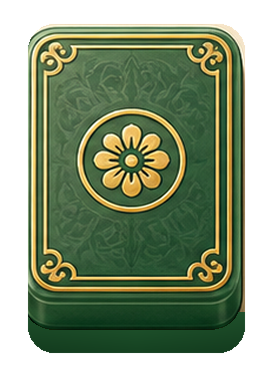
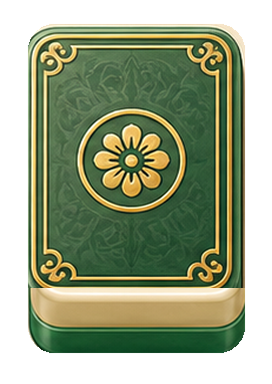
fix: unify formal honor tile lower bodies

Changed region(s): [[0.0882, 0.75, 0.9118, 0.9375]]

diff --git a/output/hulebu-ui-assets/scripts/build_formal_ui_batch_c.py b/output/hulebu-ui-assets/scripts/build_formal_ui_batch_c.py
@@ -120,39 +120,17 @@ def has_hidden_transparent_rgb(image: Image.Image) -> bool:
     return False
 
 
-def recolor_warm_lower_matte(image: Image.Image) -> Image.Image:
+def replace_lower_body(image: Image.Image, standard_body: Image.Image, start_y: int = 288) -> Image.Image:
     rgba = image.copy().convert("RGBA")
-    pixels = rgba.load()
-    start_y = 312
-    solid_green_y = 336
-    end_y = 354
-    for y in range(start_y, rgba.height):
-        depth = max(0.0, min(1.0, (y - start_y) / max(1, end_y - start_y)))
-        for x in range(rgba.width):
-            red, green, blue, alpha = pixels[x, y]
-            if alpha == 0:
-                continue
-            is_green = green >= red * 1.45 and green >= blue * 1.25
-            if y < solid_green_y and is_green:
-                continue
-            center_light = 0.88 + 0.12 * (1 - abs(x - rgba.width / 2) / (rgba.width / 2))
-            target_red = round((34 - 14 * depth) * center_light)
-            target_green = round((88 - 24 * depth) * center_light)
-            target_blue = round((47 - 15 * depth) * center_light)
-            pixels[x, y] = (target_red, target_green, target_blue, alpha)
+    lower_body = standard_body.convert("RGBA").crop((0, start_y, rgba.width, rgba.height))
+    rgba.paste(lower_body, (0, start_y))
     return rgba
 
 
-def count_non_green_lower_lip_pixels(image: Image.Image) -> int:
-    rgba = image.convert("RGBA")
-    pixels = rgba.load()
-    count = 0
-    for y in range(312, rgba.height):
-        for x in range(rgba.width):
-            red, green, blue, alpha = pixels[x, y]
-            if alpha > 0 and not (green >= red * 1.45 and green >= blue * 1.25):
-                count += 1
-    return count
+def has_standard_lower_body(image: Image.Image, standard_body: Image.Image, start_y: int = 288) -> bool:
+    actual = image.convert("RGBA").crop((0, start_y, image.width, image.height))
+    expected = standard_body.convert("RGBA").crop((0, start_y, image.width, image.height))
+    return ImageChops.difference(actual, expected).getbbox() is None
 
 
 def save_asset(
@@ -258,7 +236,8 @@ def build_tiles(entries: list[dict[str, object]]) -> dict[str, Image.Image]:
     source_items = list(source_manifest["items"])
     if not any(str(item["id"]) == "tile_back_default" for item in source_items):
         source_items.append({"id": "tile_back_default", "file": "base/tile_back_default.png"})
-    standard_alpha = Image.open(TILE_SOURCE / "preview/standard-body-blank.png").convert("RGBA").getchannel("A")
+    standard_body = Image.open(TILE_SOURCE / "preview/standard-body-blank.png").convert("RGBA")
+    standard_alpha = standard_body.getchannel("A")
     tiles: dict[str, Image.Image] = {}
     for item in source_items:
         item_id = str(item["id"])
@@ -269,7 +248,7 @@ def build_tiles(entries: list[dict[str, object]]) -> dict[str, Image.Image]:
             image = Image.open(TILE_SOURCE / str(item["file"])).convert("RGBA")
         if item_id in HONOR_BACK_IDS:
             image.putalpha(standard_alpha)
-            image = recolor_warm_lower_matte(image)
+            image = replace_lower_body(image, standard_body)
             image = clear_fully_transparent_rgb(image)
         if image.size != (272, 384):
             raise ValueError(f"Unexpected tile size for {item['id']}: {image.size}")
@@ -372,6 +351,7 @@ def validate(entries: list[dict[str, object]], preserved_count: int) -> dict[str
         errors.append(f"Tile canvas mismatch: {sorted(tile_sizes)}")
 
     reference_alpha = Image.open(PACK / "tiles/mahjong/wan-01.png").convert("RGBA").getchannel("A")
+    standard_body = Image.open(TILE_SOURCE / "preview/standard-body-blank.png").convert("RGBA")
     reference_bbox = reference_alpha.getbbox()
     honor_back_keys = {
         "tiles.mahjong.honor.east",
@@ -391,8 +371,8 @@ def validate(entries: list[dict[str, object]], preserved_count: int) -> dict[str
             errors.append(f"Honor/back alpha bbox mismatch: {entry_by_key[key]['path']}")
         if has_hidden_transparent_rgb(image):
             errors.append(f"Hidden RGB under transparent pixels: {entry_by_key[key]['path']}")
-        if count_non_green_lower_lip_pixels(image) > 0:
-            errors.append(f"Non-green lower lip remains: {entry_by_key[key]['path']}")
+        if not has_standard_lower_body(image, standard_body):
+            errors.append(f"Non-standard lower body: {entry_by_key[key]['path']}")
 
     return {
         "pack": "hulebu-formal-ui-v1",
@@ -409,7 +389,7 @@ def validate(entries: list[dict[str, object]], preserved_count: int) -> dict[str
             "mahjongTileCanvas": {"width": 272, "height": 384},
             "honorBackStandardAlpha": not any("Honor/back alpha bbox mismatch" in error for error in errors),
             "transparentRgbCleared": not any("Hidden RGB under transparent pixels" in error for error in errors),
-            "honorBackGreenLowerLip": not any("Non-green lower lip remains" in error for error in errors),
+            "honorBackStandardLowerBody": not any("Non-standard lower body" in error for error in errors),
             "targetViewport": {"width": 390, "height": 844, "resourceScale": 2},
         },
     }

diff --git a/docs/tasks/TASK_BOARD.md b/docs/tasks/TASK_BOARD.md
@@ -362,4 +362,5 @@
 | T252 | P0 | 胡了卜正式 UI 资源 Batch C | Lee | 已完成 | T248 规格；T249 视觉基线；T251 Batch A+B 已完成 | `output/hulebu-ui-assets/hulebu-formal-ui-v1/cards/**`、`modals/**`、`tiles/mahjong/**`、`master-sources/**`、`previews/**`、正式包 `manifest.json`/`validation-report.json`、`output/hulebu-ui-assets/scripts/build_formal_ui_batch_c.py`、T248/T252 任务与领取分片、麻将模块文档、当天进展/完成记录及 `npm run docs:sync` 自动生成主文档 | PNG 数量/尺寸/mode/alpha/透明角检查；麻将牌统一画布检查；manifest key 唯一性和已有 Batch A+B key 保留检查；预览板人工审阅；`npm run docs:sync`；UTF-8 无 BOM；密钥残留扫描；`git diff --check` |
 | T253 | P0 | 胡了卜正式字牌与背面透明底修正 | Lee | 已完成 | T252 formal v1 完整资源包 | `output/hulebu-ui-assets/scripts/build_formal_ui_batch_c.py`、formal v1 的 7 张字牌与 1 张背面、牌面预览、manifest/validation report、T248/T253 分片、麻将模块文档、当天进展/完成记录及 `npm run docs:sync` 自动生成主文档 | 8 张目标资源标准 alpha bbox/透明角/RGBA 检查；透明像素 RGB 清零检查；35 张牌统一画布和 manifest 80 key 检查；牌面预览人工审阅；`npm run docs:sync`；UTF-8 无 BOM；`git diff --check` |
 | T254 | P0 | 胡了卜正式字牌与背面底唇绿色化 | Lee | 已完成 | T253 字牌与背面透明底修正 | Batch C 构建脚本、formal v1 的 7 张字牌与 1 张背面、牌面预览、manifest/validation report、T248/T254 分片、麻将模块文档、当天进展/完成记录及 `npm run docs:sync` 自动生成主文档 | 8 张目标资源底唇区域浅色像素检查；T253 alpha/RGB 门禁回归；35 张牌、80 key 和预览检查；`npm run docs:sync`；UTF-8 无 BOM；`git diff --check` |
+| T255 | P0 | 胡了卜正式字牌与背面单层底座统一 | Lee | 已完成 | T254 字牌与背面底唇绿色化 | Batch C 构建脚本、formal v1 的 7 张字牌与 1 张背面、牌面预览、manifest/validation report、T248/T255 分片、麻将模块文档、当天进展/完成记录及 `npm run docs:sync` 自动生成主文档 | 8 张目标资源底座与 `wan-01` 标准下半部逐像素一致；T253 alpha/RGB 门禁回归；35 张牌、80 key 和预览检查；`npm run docs:sync`；UTF-8 无 BOM；`git diff --check` |
 <!-- DOCS_SYNC_TASKS_END -->

diff --git a/docs/tasks/CLAIMS.md b/docs/tasks/CLAIMS.md
@@ -656,4 +656,5 @@
 | T252 | 胡了卜正式 UI 资源 Batch C | Lee | 已完成 | 2026-08-09 | formal v1 的 `cards/**`、`modals/**`、`tiles/mahjong/**`、`master-sources/**`、`previews/**`、manifest/validation，Batch C 构建脚本，T248/T252 分片、麻将模块文档、当天进展/完成记录及 docs:sync 主文档 | Batch C 构建脚本；PNG/牌面/manifest 校验；预览板人工检查；`npm run docs:sync`；UTF-8 无 BOM；密钥残留扫描；`git diff --check` | 未填写 |
 | T253 | 胡了卜正式字牌与背面透明底修正 | Lee | 已完成 | 2026-08-09 | Batch C 构建脚本、formal v1 的 7 张字牌与 1 张背面、牌面预览、manifest/validation、T248/T253 分片、麻将模块文档、当天进展/完成记录及 docs:sync 主文档 | 目标 alpha/RGB 检查；35 张牌与 80 key 校验；预览人工审阅；`npm run docs:sync`；UTF-8 无 BOM；`git diff --check` | 未填写 |
 | T254 | 胡了卜正式字牌与背面底唇绿色化 | Lee | 已完成 | 2026-08-09 | Batch C 构建脚本、formal v1 的 7 张字牌与 1 张背面、牌面预览、manifest/validation、T248/T254 分片、麻将模块文档、当天进展/完成记录及 docs:sync 主文档 | 底唇浅色像素检查；T253 alpha/RGB 回归；35 张牌与 80 key 校验；预览人工审阅；`npm run docs:sync`；`git diff --check` | 未填写 |
+| T255 | 胡了卜正式字牌与背面单层底座统一 | Lee | 已完成 | 2026-08-09 | Batch C 构建脚本、formal v1 的 7 张字牌与 1 张背面、牌面预览、manifest/validation、T248/T255 分片、麻将模块文档、当天进展/完成记录及 docs:sync 主文档 | 目标 8 张与 `wan-01` 标准下半部逐像素比较；T253 alpha/RGB 回归；35 张牌与 80 key 校验；预览人工审阅；`npm run docs:sync`；`git diff --check` | 未填写 |
 <!-- DOCS_SYNC_CLAIMS_END -->

diff --git a/docs/tasks/items/T255-hulebu-formal-honor-tile-single-base-fix.md b/docs/tasks/items/T255-hulebu-formal-honor-tile-single-base-fix.md
@@ -1,0 +1,34 @@
+# T255：胡了卜正式字牌与背面单层底座统一
+
+- 优先级：P0
+- 负责人：Lee
+- 状态：已完成
+- 依赖：T254 字牌与背面底唇绿色化
+- 阻塞：无
+- 允许修改文件：Batch C 构建脚本、formal v1 的 7 张字牌与 1 张背面、牌面预览、manifest/validation report、T248/T255 分片、麻将模块文档、当天进展/完成记录及 `npm run docs:sync` 自动生成主文档
+- 禁止修改范围：其他 27 张数字牌、卡片/弹窗、Batch A+B、Cocos 工程、玩法规则、Web 试玩版、横屏、微信小游戏 SDK 和其他模块
+- 验证方式：8 张目标资源底座与 `wan-01` 标准下半部逐像素一致；T253 alpha/RGB 门禁回归；35 张牌、80 key 和预览检查；`npm run docs:sync`；UTF-8 无 BOM；`git diff --check`
+
+## 目标
+
+消除 `东 / 南 / 西 / 北 / 中 / 发 / 白 / 背面` 牌底部的双层绿色结构，使其与万筒条保持同样的单层绿色底座。
+
+## 实现方式
+
+- 删除 T254 的额外底唇渐变重绘。
+- 以 `wan-01` 为标准牌体参考，只复制不涉及牌面内容的下半部牌体像素到 8 张目标资源。
+- 保留目标牌的文字、白板边框、牌背图案和透明区清理。
+
+## 不做
+
+- 不修改万筒条数字牌。
+- 不重新生成美术母版。
+- 不接入 Cocos。
+
+## 完成结果
+
+- 删除 T254 的额外绿色渐变层，目标 8 张牌恢复为与数字牌一致的单层绿色底座。
+- 从 `y=288` 起复制标准空白牌体；该区域与 `wan-01` 标准下半部逐像素完全一致。
+- 东南西北、中发白的文字与白板边框保留，牌背图案保留。
+- formal v1 保持 35 张麻将牌、80 个唯一资源 key；validation report 状态为 `passed`。
+- 其他 27 张数字牌和 Cocos 工程未修改。

diff --git a/docs/completion/2026-08-09-task-255-hulebu-formal-honor-tile-single-base-fix.md b/docs/completion/2026-08-09-task-255-hulebu-formal-honor-tile-single-base-fix.md
@@ -1,0 +1,31 @@
+# T255 胡了卜正式字牌与背面单层底座统一完成记录
+
+- 任务编号：T255
+- 负责人：Lee
+- 完成日期：2026-08-09
+
+## 修改文件
+
+- Batch C 构建脚本。
+- formal v1 的东南西北、中发白、背面共 8 张牌图与牌面预览。
+- formal v1 validation report。
+- T248/T255 任务分片、麻将模块文档和当天进展记录。
+
+## 实现内容
+
+- 删除 T254 新增的底部绿色渐变重绘，消除第二层绿色底座。
+- 从 `y=288` 起复制标准空白牌体，确保 8 张目标牌的下半部与数字牌使用同一套像素结构。
+- 把颜色比例校验替换为标准下半部逐像素一致校验。
+
+## 验证命令与结果
+
+- `python3 output/hulebu-ui-assets/scripts/build_formal_ui_batch_c.py`：通过，Batch C 44 项，formal v1 总计 80 项。
+- 8 张目标牌与 `wan-01` 的 `y=288..383` 区域逐像素比较：全部一致。
+- validation report：`passed`；标准 alpha、透明 RGB、标准单层底座、35 张牌和 80 key 检查全部通过。
+- 深色棋盘预览：人工检查通过，目标牌均为单层绿色底座。
+- `npm run docs:sync`：通过。
+- UTF-8 无 BOM 与 `git diff --check`：通过。
+
+## 遗留问题
+
+- 尚未接入 Cocos；下一步为 Batch D SpriteFrame/Prefab 接入和 `390×844` production 验收。

diff --git a/docs/tasks/claims/T248-lee.md b/docs/tasks/claims/T248-lee.md
@@ -5,7 +5,7 @@
 - 领取人：Lee
 - 状态：进行中
 - 领取时间：2026-08-08
-- 当前阶段：formal v1 资源包共 80 项；T254 已完成字牌与背面内部浅米色底唇绿色化，资源包进入 Batch D 接入准备态。
+- 当前阶段：formal v1 资源包共 80 项；T255 已消除字牌与背面的双层绿色底座，8 张目标牌下半部已与数字牌标准牌体逐像素统一。
 - 允许修改文件：`docs/superpowers/specs/2026-08-08-hulebu-cocos-formal-ui-rebuild-design.md`、`docs/tasks/items/T248-hulebu-cocos-formal-ui-rebuild.md`、`docs/tasks/claims/T248-lee.md`、`docs/tasks/CHANGE_INTAKE.md`、`docs/tasks/NEXT_ID.md`、`docs/tasks/TASK_BOARD.md`、`docs/tasks/CLAIMS.md`、`docs/status/CURRENT_STATUS.md`、`docs/modules/mahjong-roguelike/**`、后续经批次重新领取的 `output/hulebu-ui-assets/**` 和正式 Cocos UI 文件。
 - 禁止修改文件：玩法规则、M2 App Flow/存档协议、Web 试玩版、横屏布局、微信小游戏 SDK、PDF、AI 修图和其他游戏模块。
 - 验证命令：`npm run docs:sync`；规格占位扫描；UTF-8 无 BOM 检查；`git diff --check`。

diff --git a/docs/modules/mahjong-roguelike/PROGRESS.md b/docs/modules/mahjong-roguelike/PROGRESS.md
@@ -862,3 +862,4 @@
 - T253 已修正正式字牌与背面的浅色底边：东南西北、中发白和背面统一使用标准牌体 alpha，并清零完全透明像素中的隐藏 RGB；深色棋盘预览不再出现白底/白色光晕。
 - Batch C validation report 新增 `honorBackStandardAlpha` 和 `transparentRgbCleared` 门禁，两项均通过；formal v1 仍保持 80 个唯一 key 和 35 张统一牌面。
 - T254 已按截图反馈继续修正正式字牌与背面底部的不透明浅色侧壁。东南西北、中发白和背面从底座区域起识别白色、米色与棕色残留并映射为连续绿色过渡；validation report 新增 `honorBackGreenLowerLip` 门禁并通过，其他 27 张数字牌未修改。
+- T255 已修正 T254 造成的双层绿色底座。构建脚本不再额外生成绿色渐变层，而是从 `y=288` 起直接复制标准空白牌体；东南西北、中发白和背面的下半部现与 `wan-01` 逐像素一致，统一为米白侧壁加单层绿色底座。validation report 改用 `honorBackStandardLowerBody` 精确门禁并通过。

diff --git a/docs/tasks/claims/T255-lee.md b/docs/tasks/claims/T255-lee.md
@@ -1,0 +1,13 @@
+# T255：胡了卜正式字牌与背面单层底座统一
+
+- 任务编号：T255
+- 任务名称：胡了卜正式字牌与背面单层底座统一
+- 领取人：Lee
+- 状态：已完成
+- 领取时间：2026-08-09
+- 允许修改文件：Batch C 构建脚本、formal v1 的 7 张字牌与 1 张背面、牌面预览、manifest/validation、T248/T255 分片、麻将模块文档、当天进展/完成记录及 docs:sync 主文档
+- 禁止修改：其他 27 张数字牌、卡片/弹窗、Batch A+B、Cocos 工程、玩法规则、Web 试玩版、横屏、微信小游戏 SDK 和其他模块
+- 验证命令：目标 8 张与 `wan-01` 标准下半部逐像素比较；T253 alpha/RGB 回归；35 张牌与 80 key 校验；预览人工审阅；`npm run docs:sync`；`git diff --check`
+- 当前阻塞：无
+- 完成结果：8 张目标牌从 `y=288` 起与 `wan-01` 标准下半部逐像素一致，双层绿色底座已消除，全部资源门禁通过。
+- 下一步：按 T248 进入 Batch D，接入 Cocos SpriteFrame/Prefab 并做 `390×844` production 验收。

diff --git a/docs/progress/2026-08-09-lee.md b/docs/progress/2026-08-09-lee.md
@@ -42,3 +42,11 @@
 - 牌背最下方米白投影和字牌底部浅色角已清除，原有绿色底座明暗保留。
 - validation report 新增 `honorBackGreenLowerLip` 门禁并通过；formal v1 仍为 35 张牌、80 个唯一 key。
 - 其他 27 张数字牌、Cocos 工程和临时产物未修改或提交。
+
+## T255：胡了卜正式字牌与背面单层底座统一
+
+- 根据整套牌面对比截图确认 T254 的绿色渐变形成了第二层底座，问题从颜色修正升级为牌体结构不一致。
+- 删除额外底唇渐变，从 `y=288` 起直接复制标准空白牌体，保留上方文字、白板边框和牌背图案。
+- 东南西北、中发白和背面的下半部与 `wan-01` 逐像素完全一致，统一为米白侧壁加单层绿色底座。
+- validation report 用 `honorBackStandardLowerBody` 替换颜色比例门禁并通过；formal v1 仍为 35 张牌、80 个唯一 key。
+- 其他 27 张数字牌、Cocos 工程和临时产物未修改或提交。

diff --git a/docs/status/CURRENT_STATUS.md b/docs/status/CURRENT_STATUS.md
@@ -208,8 +208,8 @@ Cocos Creator 负责正式小游戏发布路径，尤其是微信小游戏和抖
 
 ### 任务分片
 
-- 已扫描任务分片：231 个。
-- 已扫描领取分片：221 个。
+- 已扫描任务分片：232 个。
+- 已扫描领取分片：222 个。
 
 ### 当前未完成领取
 
@@ -332,9 +332,9 @@ Cocos Creator 负责正式小游戏发布路径，尤其是微信小游戏和抖
 
 ### 最近完成任务分片
 
-- T250：PPTOKEN 图片生成切换新站，负责人：Lee
 - T251：胡了卜正式 UI 资源 Batch A+B，负责人：Lee
 - T252：胡了卜正式 UI 资源 Batch C，负责人：Lee
 - T253：胡了卜正式字牌与背面透明底修正，负责人：Lee
 - T254：胡了卜正式字牌与背面底唇绿色化，负责人：Lee
+- T255：胡了卜正式字牌与背面单层底座统一，负责人：Lee
 <!-- DOCS_SYNC_STATUS_END -->

diff --git a/docs/tasks/CHANGE_INTAKE.md b/docs/tasks/CHANGE_INTAKE.md
@@ -3536,3 +3536,10 @@
 - 变更类型：正式资源牌体材质修正。
 - 处理任务：T254。
 - 范围：只把 7 张字牌和 1 张背面牌体内部的浅米色底唇改为绿色过渡，保留 T253 alpha/RGB 修复，不修改其他 27 张数字牌或 Cocos 工程。
+
+# 2026-08-09：T255 胡了卜正式字牌与背面单层底座统一
+
+- 来源：Lee 对比整套牌面截图，指出 T254 后东南西北、中发白和背面底部出现两层绿色，与万筒条的单层绿色底座不一致。
+- 变更类型：正式资源牌体结构修正。
+- 处理任务：T255。
+- 范围：删除 T254 的额外底唇渐变，直接复用数字牌标准下半部牌体像素，使 7 张字牌和 1 张背面的底座轮廓、颜色、alpha 与数字牌一致；不修改其他 27 张数字牌或 Cocos 工程。
